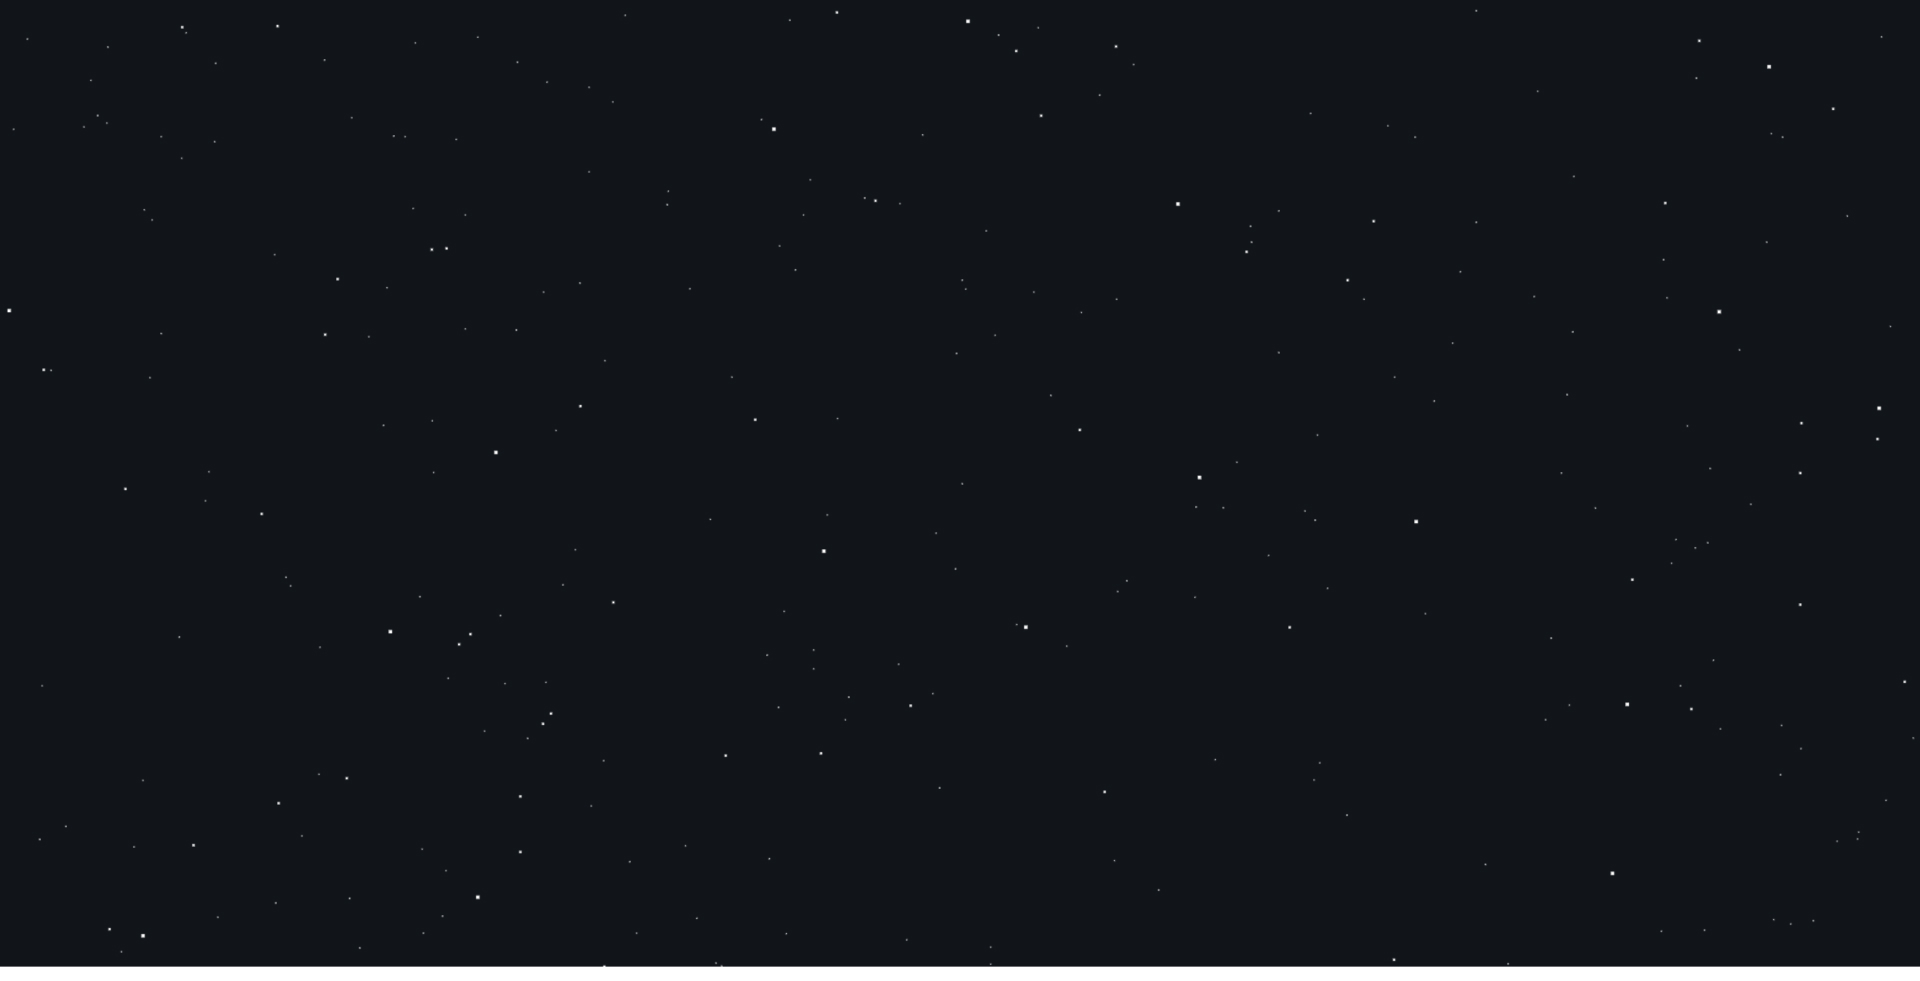
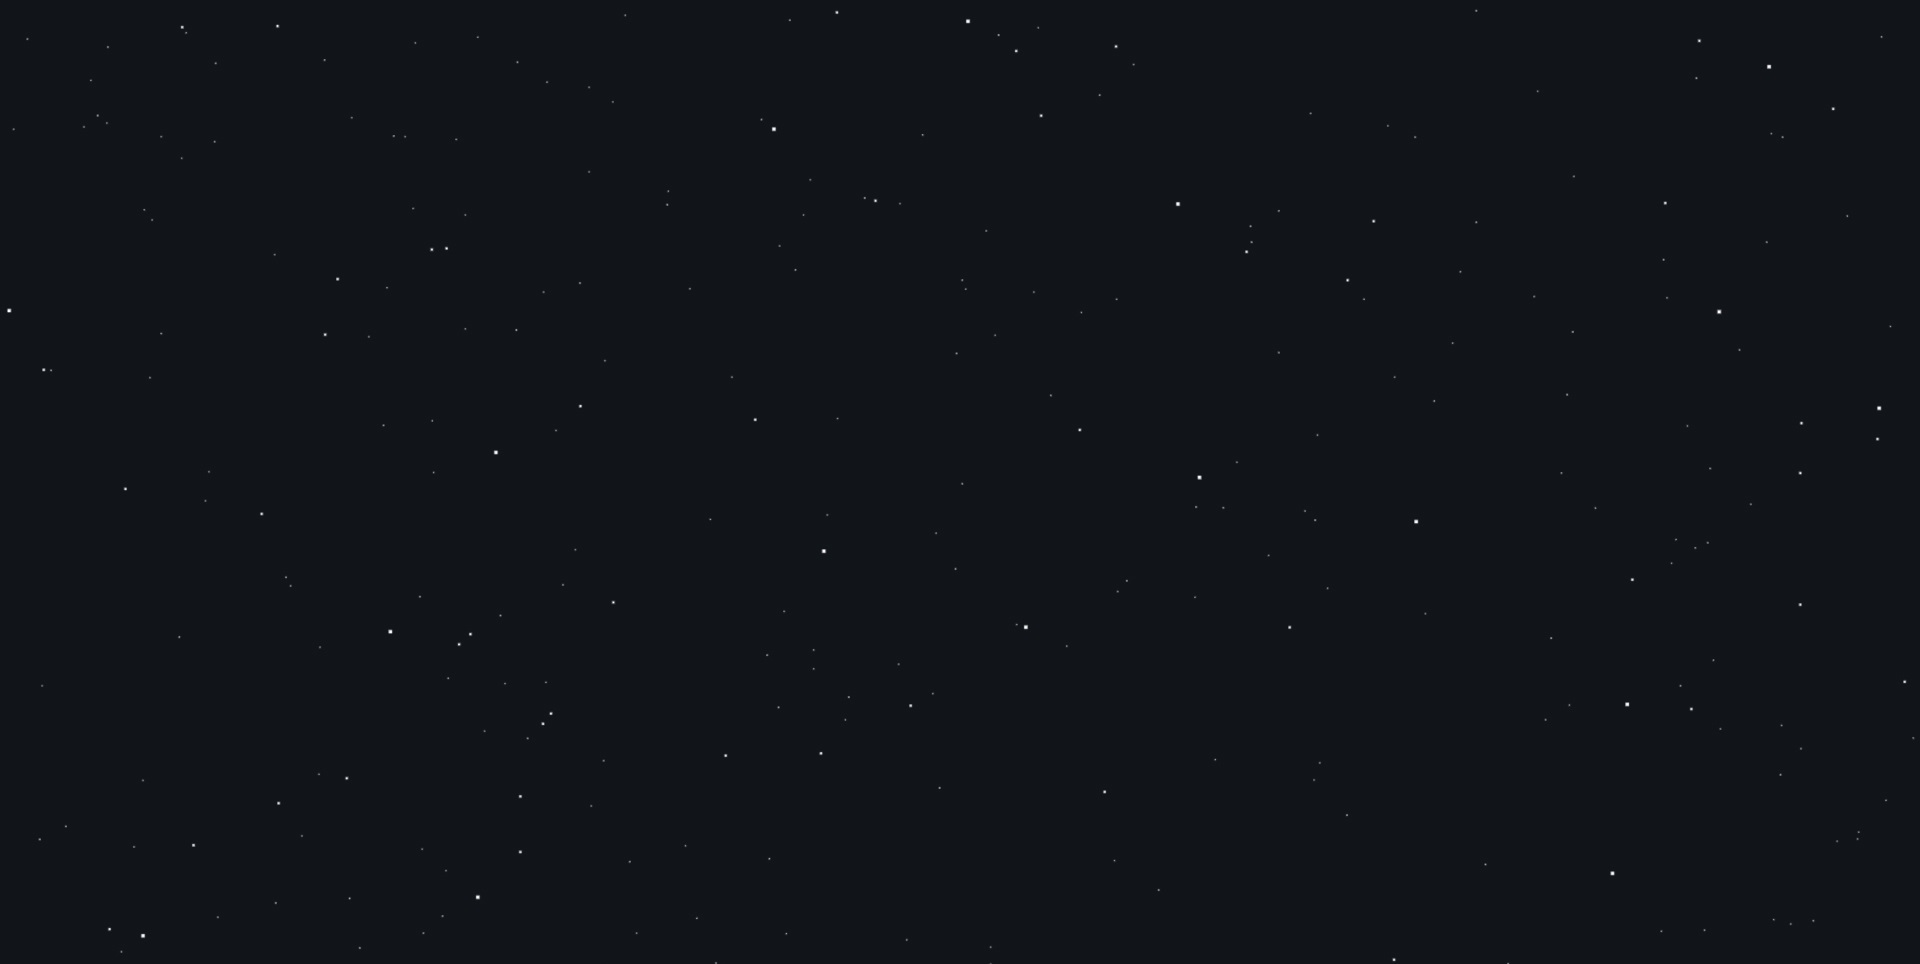
fix: center hero content vertically and horizontally

Changed region(s): [[0.0, 0.9647, 1.0, 1.0]]

diff --git a/src/styles/_hero.scss b/src/styles/_hero.scss
@@ -6,30 +6,35 @@
     background-attachment: fixed;
     background-size: cover;
     width: 100vw;
-    height: 65vh;
+    height: 100vh;
+    margin-bottom: 1px;
 
-    @media only screen and (min-width: 960px) {
-        width: 100vw;
-        height: 70vh;
-    }
 
-    @media only screen and (min-width: 1140px) {
-        width: 100vw;
-        height: 100vh;
-    }
+    // @media only screen and (min-width: 960px) {
+    //     width: 100vw;
+    //     height: 70vh;
+    // }
 
-    div {
+    // @media only screen and (min-width: 1140px) {
+    //     width: 100vw;
+    //     height: 100vh;
+    // }
+
+    & > .container {
         padding-top: 96px;
         display: flex;
         flex-direction: column;
+        justify-content: center;
         align-items: center;
+        padding-top: 72px;
+        height: 100%;
 
         @media only screen and (min-width: 960px) {
-            padding-top: 188px;
+            padding-top: 137.018px;
         }
 
         @media only screen and (min-width: 1140px) {
-            padding-top: 288px;
+            padding-top: 148px;
         }
 
         h1 {
@@ -42,14 +47,13 @@
 
             @media only screen and (min-width: 960px) {
                 font-size: 52px;
-                line-height: 60px;
+                line-height: 65px;
             }
 
             @media only screen and (min-width: 1140px) {
                 font-size: 72px;
                 line-height: 80px;
-                margin-left: 90px;
-                margin-right: 90px;
+                max-width: 60%;
             }
 
             & > span::after {
@@ -80,6 +84,7 @@
             margin-left: 40px;
             margin-right: 40px;
             margin-top: 16px;
+            max-width: 70%;
 
             @media only screen and (min-width: 1140px) {
                 font-size: 24px;
@@ -87,6 +92,7 @@
                 margin-left: 200px;
                 margin-right: 200px;
                 margin-top: 32px;
+                max-width: 50%;
             }
         }
 
